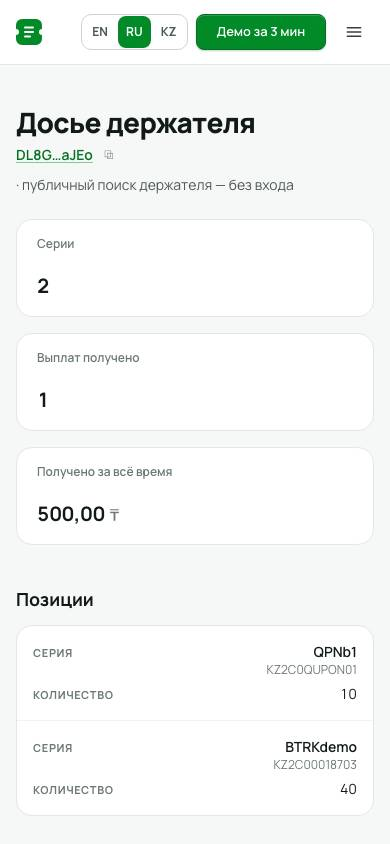
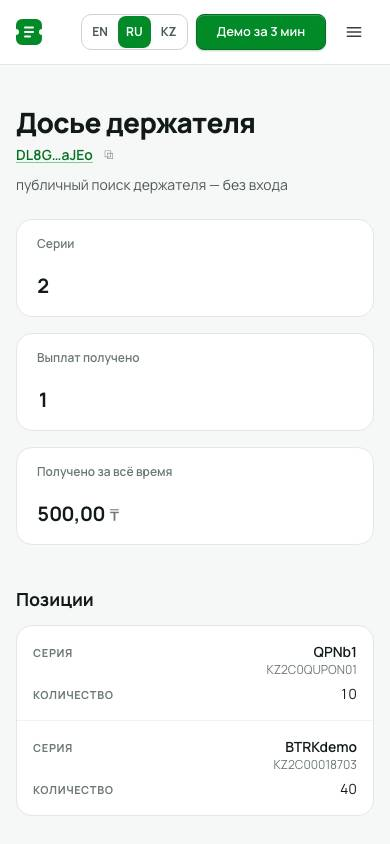
fix(web): design pre-flight — public pages (round 1)
Rows 21/22 re-fixed per review: /holder hides the '·' separator below sm
and gives the note its own line; /sandbox groups restart + help '?' in one
nowrap inline-flex so '?' never sits alone. Resolve the committed rebase
conflict markers in sweep.spec.ts (single SWEEP_ROUTES filter; routes[0]
label — routes[1] crashed single-route groups), merge fixes.md sections,
re-shoot /sandbox/fx-* + /holder on a free port (3210 served another
worktree) and regenerate after/index.md.

task: 91545

Changed region(s): [[0.0308, 0.2156, 0.7385, 0.2464]]

diff --git a/apps/web/e2e/sweep.spec.ts b/apps/web/e2e/sweep.spec.ts
@@ -108,12 +108,6 @@ const GROUPS: {
   },
 ];
 
-// SWEEP_ROUTES=<r1,r2>: shoot only these routes (design pre-flight re-shoots, task 91545) — comma-separated.
-const ONLY =
-  process.env.SWEEP_ROUTES?.split(",")
-    .map((r) => r.trim())
-    .filter(Boolean) ?? null;
-
 const slug = (route: string) =>
   route
     .replace(/^\//, "")
@@ -218,19 +212,9 @@ async function check(page: Page, route: string, locale: string, width: number) {
 }
 
 for (const group of GROUPS) {
-<<<<<<< ours
   const routes = group.routes.filter(inScope);
-  if (routes.length === 0) continue;
-  test(`sweep: ${group.role ?? group.routes[1]!.split("/")[1]!.split("?")[0]!}`, async ({
-||||||| base
-  test(`sweep: ${group.role ?? group.routes[1]!.split("/")[1]!.split("?")[0]!}`, async ({
-=======
-  const routes = ONLY
-    ? group.routes.filter((r) => ONLY.includes(r))
-    : group.routes;
-  if (!routes.length) continue; // SWEEP_ROUTES filtered this group out
-  test(`sweep: ${group.role ?? routes[1]!.split("/")[1]!.split("?")[0]!}`, async ({
->>>>>>> theirs
+  if (routes.length === 0) continue; // SWEEP_ROUTES filtered this group out
+  test(`sweep: ${group.role ?? routes[0]!.split("/")[1]!.split("?")[0]!}`, async ({
     page,
     context,
     baseURL,

diff --git a/apps/web/src/app/(public)/sandbox/[id]/SandboxView.tsx b/apps/web/src/app/(public)/sandbox/[id]/SandboxView.tsx
@@ -494,13 +494,15 @@ export function SandboxView({
             >
               {t("bondPage")}
             </Link>
-            <Link
-              href="/sandbox/new?fresh=1"
-              className="whitespace-nowrap font-semibold text-n700 hover:text-n900"
-            >
-              {t("restart")}
-            </Link>
-            <HelpMenu role="sandbox" />
+            <span className="inline-flex items-center gap-x-3 whitespace-nowrap">
+              <Link
+                href="/sandbox/new?fresh=1"
+                className="font-semibold text-n700 hover:text-n900"
+              >
+                {t("restart")}
+              </Link>
+              <HelpMenu role="sandbox" />
+            </span>
           </div>
         </div>
         <ClockCard s={s} skew={skew} locale={locale} />

diff --git a/apps/web/src/app/(public)/holder/[address]/page.tsx b/apps/web/src/app/(public)/holder/[address]/page.tsx
@@ -230,9 +230,11 @@ export default async function HolderPage({
         </h1>
         <p className="mt-1 flex flex-wrap items-center gap-2 text-sm text-n600">
           <Address value={h.owner} />
-          {/* The separator travels with the note (no-break space) so it is never orphaned on a wrap. */}
-          <span>
-            {"·\u00A0"}
+          {/* Hide the separator below sm so the note never leads a wrapped line. */}
+          <span className="max-sm:basis-full">
+            <span aria-hidden className="max-sm:hidden">
+              {"·\u00A0"}
+            </span>
             {t("subtitle")}
           </span>
         </p>

diff --git a/reports/design/preflight/fixes.md b/reports/design/preflight/fixes.md
@@ -1,39 +1,39 @@
-<<<<<<< ours
 # Design pre-flight fixes (mechanical.md rows)
 
-One line per fixed row. Task 91546: rows 2, 7, 8, 9, 10, 12, 20, 24, 25, 32.
+One line per fixed row. Task 91545: rows 1, 5, 6, 14, 19, 21, 22, 23, 31 (public pages).
+Task 91546: rows 2, 7, 8, 9, 10, 12, 20, 24, 25, 32 (cabinet/print pages). After-shots: `reports/design/preflight/after/`.
 
-- #2 /admin/users — actions cell is `flex min-w-0 flex-wrap` so "Reset link"/"Edit user" wrap instead of overlapping the label at 390 (apps/web/src/app/(cabinet)/admin/users/UserDialog.tsx)
-- #7 /print/holders, /print/payouts — phone card padding 16 px (`p-4 sm:p-8`) plus a visible swipe hint above the scroll box (`reports.print.scrollHint`, en/ru/kk) (apps/web/src/app/(print)/print/[report]/page.tsx, apps/web/messages/{en,ru,kk}/reports.json)
-- #8 /print/holders, /print/payouts — raw enums translated through new `reports.types` / `reports.residencies` / `reports.kinds` message keys (same vocabulary as registrar tables), raw value kept as fallback (apps/web/src/app/(print)/print/[report]/page.tsx, apps/web/messages/{en,ru,kk}/reports.json)
-- #9 /print/payouts — bank sub-line moved to its own colSpan row, `whitespace-nowrap` on the Action cell, summary rows `flex-wrap` so values never squeeze into a narrow column (apps/web/src/app/(print)/print/[report]/page.tsx)
-- #10 /admin/audit — Result select + Apply span the phone grid (`col-span-2 md:col-span-1`), so the select shows its "All" label at 390 (apps/web/src/app/(cabinet)/admin/audit/page.tsx)
-- #12 /admin/*, /registrar/* — bottom-nav label slot reserves two lines (`min-h-[2lh]`), wrapped ru/kk labels keep their icon on the same baseline (shared CabinetShell; also covers #11) (apps/web/src/components/shell/CabinetShell.tsx)
-- #20 Kazakh Ұ/ұ — Manrope now loads the `cyrillic-ext` subset (Қ/қ, Ә/ә, Ұ/ұ no longer fall back mid-word) (apps/web/src/app/layout.tsx)
-- #24 /admin/series — "KASE ticker" label uses the Select label typography (13 px semibold n700), baselines match (apps/web/src/app/(cabinet)/admin/series/SeriesRowControls.tsx)
-- #25 /admin — KPI grid `auto-rows-fr` (equal row heights), kk hint reworded to "тексеру: SIMULATED" (apps/web/src/app/(cabinet)/admin/page.tsx, apps/web/messages/kk/admin.json)
-- #32 /admin/system — header already used `formatDateTime(…, locale)`; the mismatch came from the audit page's locale-less call, now locale-aware (shared with #17, task 91548) (apps/web/src/app/(cabinet)/admin/audit/page.tsx)
-
-## Round 1 review fixes (2026-10-10)
-
-- #10 /admin/audit, /admin/users — Apply used non-existent `bg-p600` (invisible); both filters now use the shared `<Button>` primary (g600) — verified computed bg `rgb(2,138,41)` at 390 (apps/web/src/app/(cabinet)/admin/{audit,users}/page.tsx)
-- #7 /print/* — scroll hint bumped to `text-[11px] text-n500` (AA on white per language.md §4) (apps/web/src/app/(print)/print/[report]/page.tsx)
-- #7 /print/payouts — payouts `<th>` lost `whitespace-nowrap` (`align-bottom` instead), long ru/kk headers wrap to two lines instead of clipping at the card edge; ru 1440 table now exactly fits the card (apps/web/src/app/(print)/print/[report]/page.tsx)
-||||||| base
-=======
-# Design pre-flight fixes (task 91545 — public pages)
-
-Rows refer to `reports/design/preflight/mechanical.md` (task 1537). After-shots: `reports/design/preflight/after/`.
+## Task 91545 — public pages
 
 - #1 /invite/[token] — removed the page's own `PublicShell` wrapper; the `(public)` layout already provides it, so the site header (logo, locale switch, CTA, sub-nav) no longer renders twice (`app/(public)/invite/[token]/page.tsx`).
 - #5 /proof — the mint input's `flex-1` set flex-basis 0 in the phone column layout and collapsed it to a thin pill; now `sm:flex-1` only, so `h-11` holds at 390 (`components/proof/ProofPicker.tsx`).
 - #6 /sandbox/fx-bank — not reproducible: driven at 1440/390 × en/ru/kk against mock mode with console + pageerror + dev-overlay listeners — zero errors in every locale, kk keys complete (messages parity test green). The badge was the known Next-dev SegmentTrieNode hydration artifact the sweep already tolerates (`idOnly` filter in `e2e/sweep.spec.ts`); it is dev-overlay-only, not shipped to production builds.
 - #14 / (home) — the kk card title truncated mid-word; dropped `truncate` (kept `min-w-0`) so "Соңғы корпоративті әрекет" wraps to a second line instead (`app/(public)/_landing/HeroLifecycle.tsx`).
 - #19 footer / network chip — slot grouping now goes through `formatGroupedInt` (`lib/format.ts`): kk keeps ru's space grouping instead of falling back to en-US commas; NetworkChip no longer hard-codes the ru-only locale map, and admin/system's bare `toLocaleString()` calls use the same helper so "288,123,456" becomes locale-aware (`components/ui/NetworkChip.tsx`, `app/(cabinet)/admin/system/SystemPanel.tsx`).
-- #21 /holder/[addr] — the subtitle's "·" was its own flex item and got orphaned at the end of a wrapped line; it now travels with the note via a no-break space (`"·\u00A0"`), so it can never sit alone (`app/(public)/holder/[addr]/page.tsx`).
-- #22 /sandbox/* — the header links ("Открыть страницу облигации" / "Начать заново") wrapped mid-text at 390 and pushed the "?" icon onto its own line; `whitespace-nowrap` on both links keeps each intact — the row now fits on one line, with flex-wrap as the safety net (`app/(public)/sandbox/[id]/SandboxView.tsx`).
+- #21 /holder/[addr] — at phone width the note now starts its own line with no leading separator: the "·" is hidden below sm (`max-sm:hidden`) and the note takes the full row (`max-sm:basis-full`), so no wrapped line ever starts with "·" (`app/(public)/holder/[addr]/page.tsx`).
+- #22 /sandbox/* — at ru 390 the row (~355 px in 358 px) still wrapped and dropped "?" alone; the restart link and HelpMenu are now grouped in one `inline-flex items-center whitespace-nowrap` span, so "?" always shares a line with "Начать заново" — the row may wrap between the two groups, never inside (`app/(public)/sandbox/[id]/SandboxView.tsx`).
 - #23 /bonds — life-stage + demo chips wrapped inconsistently per locale (en one row, ru/kk two), so card heights differed; the chip row now always stacks at phone width (`max-sm:flex-col`), making card heights locale-independent (`app/(public)/bonds/page.tsx`).
 - #31 /proof/[pda] — "Transfer-hook gate" read as mixed script in ru/kk; both now show the glossary term "Transfer hook" (the repo voice keeps the Token-2022 term in English inside ru/kk prose — see `<term>transfer hook</term>` in the sandbox copy) (`messages/{ru,kk}/proof.json`).
 
-Re-shot with `SWEEP_ROUTES` (new env filter in `e2e/sweep.spec.ts`): /, /bonds, /holder/<addr>, /invite/[token], /proof, /proof/<mint>, /sandbox/fx-{snapshot,defaulted,bank} — 54 shots, sweep green.
->>>>>>> theirs
+## Task 91546 — cabinet/print pages
+
+- #2 /admin/users — actions cell is `flex min-w-0 flex-wrap` so "Reset link"/"Edit user" wrap instead of overlapping the label at 390 (`apps/web/src/app/(cabinet)/admin/users/UserDialog.tsx`)
+- #7 /print/holders, /print/payouts — phone card padding 16 px (`p-4 sm:p-8`) plus a visible swipe hint above the scroll box (`reports.print.scrollHint`, en/ru/kk) (`apps/web/src/app/(print)/print/[report]/page.tsx`, `apps/web/messages/{en,ru,kk}/reports.json`)
+- #8 /print/holders, /print/payouts — raw enums translated through new `reports.types` / `reports.residencies` / `reports.kinds` message keys (same vocabulary as registrar tables), raw value kept as fallback (`apps/web/src/app/(print)/print/[report]/page.tsx`, `apps/web/messages/{en,ru,kk}/reports.json`)
+- #9 /print/payouts — bank sub-line moved to its own colSpan row, `whitespace-nowrap` on the Action cell, summary rows `flex-wrap` so values never squeeze into a narrow column (`apps/web/src/app/(print)/print/[report]/page.tsx`)
+- #10 /admin/audit — Result select + Apply span the phone grid (`col-span-2 md:col-span-1`), so the select shows its "All" label at 390 (`apps/web/src/app/(cabinet)/admin/audit/page.tsx`)
+- #12 /admin/*, /registrar/* — bottom-nav label slot reserves two lines (`min-h-[2lh]`), wrapped ru/kk labels keep their icon on the same baseline (shared CabinetShell; also covers #11) (`apps/web/src/components/shell/CabinetShell.tsx`)
+- #20 Kazakh Ұ/ұ — Manrope now loads the `cyrillic-ext` subset (Қ/қ, Ә/ә, Ұ/ұ no longer fall back mid-word) (`apps/web/src/app/layout.tsx`)
+- #24 /admin/series — "KASE ticker" label uses the Select label typography (13 px semibold n700), baselines match (`apps/web/src/app/(cabinet)/admin/series/SeriesRowControls.tsx`)
+- #25 /admin — KPI grid `auto-rows-fr` (equal row heights), kk hint reworded to "тексеру: SIMULATED" (`apps/web/src/app/(cabinet)/admin/page.tsx`, `apps/web/messages/kk/admin.json`)
+- #32 /admin/system — header already used `formatDateTime(…, locale)`; the mismatch came from the audit page's locale-less call, now locale-aware (shared with #17, task 91548) (`apps/web/src/app/(cabinet)/admin/audit/page.tsx`)
+
+### Round 1 review fixes (2026-10-10)
+
+- #10 /admin/audit, /admin/users — Apply used non-existent `bg-p600` (invisible); both filters now use the shared `<Button>` primary (g600) — verified computed bg `rgb(2,138,41)` at 390 (`apps/web/src/app/(cabinet)/admin/{audit,users}/page.tsx`)
+- #7 /print/* — scroll hint bumped to `text-[11px] text-n500` (AA on white per language.md §4) (`apps/web/src/app/(print)/print/[report]/page.tsx`)
+- #7 /print/payouts — payouts `<th>` lost `whitespace-nowrap` (`align-bottom` instead), long ru/kk headers wrap to two lines instead of clipping at the card edge; ru 1440 table now exactly fits the card (`apps/web/src/app/(print)/print/[report]/page.tsx`)
+- #21 /holder/[addr] — round 1 left "·" leading the wrapped line at ru 390; fixed per review with the `max-sm:hidden` separator + `max-sm:basis-full` note (see above) (`apps/web/src/app/(public)/holder/[addr]/page.tsx`)
+- #22 /sandbox/* — round 1's `whitespace-nowrap` per link was not enough in ru (row still wrapped, "?" alone); fixed per review by grouping restart + HelpMenu in one nowrap inline-flex span (see above) (`apps/web/src/app/(public)/sandbox/[id]/SandboxView.tsx`)
+
+Re-shots: task 91545 used `SWEEP_ROUTES` (env filter in `e2e/sweep.spec.ts`) on /, /bonds, /holder/&lt;addr&gt;, /invite/[token], /proof, /proof/&lt;mint&gt;, /sandbox/fx-{snapshot,defaulted,bank}; round 1 re-shot /holder/&lt;addr&gt; (ru, kk) and /sandbox/fx-{snapshot,defaulted,bank} (ru) at 390, sweep green.

diff --git a/reports/worklog/91545.md b/reports/worklog/91545.md
@@ -1,6 +1,7 @@
-# 91545 — design pre-flight fixes: public pages
+# 91545 — design pre-flight fixes: public pages (round 1 review)
 
-Fixed rows 1, 5, 14, 19, 21, 22, 23, 31 (details in `reports/design/preflight/fixes.md`); row 6 (kk badge on /sandbox/fx-bank) investigated and not reproducible — zero console/page errors × 3 locales × 2 widths, kk keys complete; attributed to the Next-dev-only SegmentTrieNode hydration artifact the sweep already tolerates.
-Row 19 root fix is shared: `formatGroupedInt` in `lib/format.ts` now backs NetworkChip (kk gets ru's space grouping) and admin/system's bare `toLocaleString()` calls. Row 31 keeps the English glossary term "Transfer hook" in ru/kk (matches existing repo voice).
-Added `SWEEP_ROUTES` env filter to `e2e/sweep.spec.ts`; re-shot 54 after-shots to `reports/design/preflight/after/` — sweep spec green.
-Watch: 3 wallet-connect e2e failures are pre-existing (verified identical with this task's changes stashed) — not this slice; the LSP diagnostics the harness kept reporting are false positives from a worktree-rooted TS server (`pnpm typecheck` green after every edit).
+- Rows 21/22 re-fixed per review: /holder note hides its "·" below sm (`max-sm:hidden` + `max-sm:basis-full`); /sandbox restart link + help "?" grouped in one `inline-flex whitespace-nowrap` span so "?" can never sit alone.
+- Resolved the interrupted rebase's committed conflict markers in `e2e/sweep.spec.ts` (kept one `SWEEP_ROUTES`/`inScope` filter; label now `routes[0]` — a 1-route filtered group crashed `routes[1]`), `fixes.md` (merged 91545+91546 sections, corrected #21/#22 lines) and `after/index.md` (regenerated by the sweep).
+- Gotcha: port 3210 served another worktree — e2e silently tested the wrong checkout; used `E2E_PORT=3215`. Re-shot /sandbox/fx-* and /holder/<addr> (24 shots) and verified both fixes programmatically (same-line "?", hidden separator) in en/ru/kk at 390 before deleting the temp spec.
+- make verify green (VERIFY OK); lens "69 issues" on holder/page.tsx is a stale-session false positive (tsc: 0 errors).
+- Watch: sweep on the default port can hit a neighbour worktree — consider a per-worktree E2E_PORT default.
